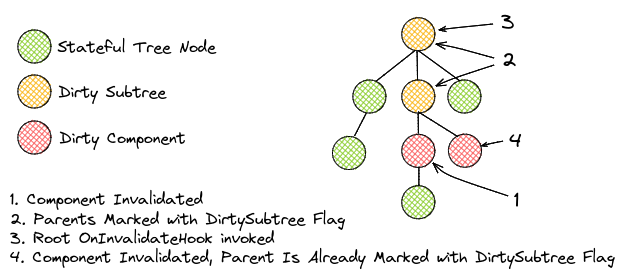
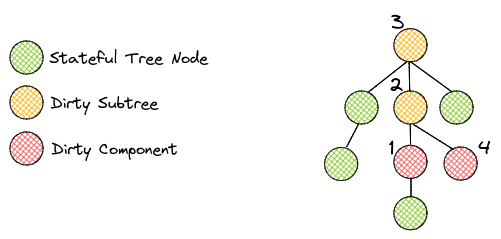
Docs

Changed region(s): [[0.0, 0.0293, 0.988, 0.9665], [0.509, 0.4686, 0.5988, 0.6151]]

diff --git a/packages/ivi/README.md b/packages/ivi/README.md
@@ -202,7 +202,7 @@ DOM element with `Element.removeAttribute(..)` method.
 Attribute values are escaped automatically:
 
 ```js
-htm`div :name='escape & "'
+htm`div :name='escape & "'`
 ```
 
 HTML:
@@ -441,6 +441,14 @@ function component<P>(
  * @param c Component instance.
  */
 function invalidate(c: Component): void;
+
+/**
+ * useUnmount creates an unmount hook.
+ *
+ * @param component Component instance.
+ * @param hook Unmount hook.
+ */
+function useUnmount(component: Component, hook: () => void): void;
 ```
 
 ### Stateless Components
@@ -478,24 +486,23 @@ API.
  *
  * @typeparam T Input type.
  * @typeparam U Output type.
- * @param fn
- * @param areEqual `areEqual` function.
- * @returns memoized function.
+ * @param areEqual Function that checks if input value hasn't changed.
+ * @param fn Function to memoize.
+ * @returns Memoized function.
  */
 function memo<T, U>(
-  fn: (props: T) => U,
   areEqual: (prev: T, next: T) => boolean,
+  fn: (props: T) => U,
 ): (props: T) => U;
 ```
 
 Example:
 
 ```js
-const FullName = component((c) => {
-  const fullName = memo(
-    ([firstName, lastName]) => `${firstName} ${lastName}`,
-    (prev, next) => prev[0] === next[0] && prev[1] === next[1],
-  );
+const Example = component((c) => {
+  const fullName = memo(shallowEqArray, ([firstName, lastName]) => (
+    `${firstName} ${lastName}`
+  ));
 
   return ({firstName, lastName}) => htm`
     div.fullName ${fullName([firstName, lastName])}
@@ -578,30 +585,6 @@ const Counter = component((c) => {
 
 ## Component Hooks
 
-### Unmount
-
-```ts
-/**
- * useUnmount creates an unmount hook.
- *
- * @param component Component instance.
- * @param hook Unmount hook.
- */
-function useUnmount(component: Component, hook: () => void): void;
-```
-
-Example:
-
-```js
-const UnmountMe = component((c) => {
-  useUnmount(c, () => {
-    console.log("unmounted");
-  });
-
-  return () => null;
-});
-```
-
 ### Effect
 
 ```ts
@@ -610,35 +593,29 @@ const UnmountMe = component((c) => {
  *
  * @typeparam T Hook props type.
  * @param component Component instance.
+ * @param areEqual Function that checks if input value hasn't changed.
  * @param hook Side effect function.
- * @param areEqual `areEqual` function.
  * @returns Side effect hook.
  */
 function useEffect = <P>(
   component: Component,
-  hook: (props?: P) => (() => void) | void,
   areEqual: (prev: P, next: P) => boolean,
+  hook: (props?: P) => (() => void) | void,
 ): (props: P) => void;
 ```
 
 Example:
 
 ```js
-const Counter = component((c) => {
-  let i = 0;
-  const timer = useEffect(c,
-    (delay) => {
-      const tid = setInterval(() => {
-        i++;
-        invalidate(c);
-      }, delay);
-      return () => { clearInterval(tid); };
-    },
-    (prev, next) => prev !== next,
-  );
+const Example = component((c) => {
+  const [count, setCount] = useState(0);
+  const timer = useEffect(c, shallowEq, ({ interval }) => {
+    const tid = setInterval(() => { setCount(count() + 1); }, interval);
+    return () => { clearInterval(tid); };
+  });
 
-  return (delay) => (
-    timer(delay),
+  return (interval) => (
+    timer({ interval }),
     htm`span.Counter ${i}`
   );
 });
@@ -695,9 +672,9 @@ for changes.
 const strictEq = <T>(a: T, b: T): boolean;
 
 /**
- * Checks if objects are shallowly equal.
+ * Checks if objects are shallow equal.
  *
- * shallowEqual algorithm is using strict equality operator `===` to
+ * shallowEq algorithm is using strict equality operator `===` to
  * compare object values.
  *
  * @param a
@@ -709,7 +686,7 @@ function shallowEq<T extends Record<string | symbol, unknown>>(a: T, b: T): bool
 /**
  * Checks if arrays are shallow equal.
  *
- * shallowEqualArray algorithm is using strict equality operator `===` to
+ * shallowEqArray algorithm is using strict equality operator `===` to
  * compare array values.
  *
  * @param a
@@ -725,29 +702,29 @@ function shallowEqArray<T>(a: T[], b: T[]): boolean;
 
 ```ts
 /**
- * Finds the closest DOM node from the {@link SNode} instance.
+ * Finds the closest DOM node from a Stateful Tree {@link SNode}.
  *
  * @typeparam T DOM node type.
- * @param sNode {@link SNode} instance.
+ * @param sNode Stateful Tree {@link SNode}.
  * @returns DOM node.
  */
 function findDOMNode<T extends Node | Text>(sNode: SNode | null): T | null;
 
 /**
- * Checks if {@link SNode} contains a DOM element.
+ * Checks if a Stateful Tree {@link SNode} contains a DOM element.
  *
- * @param parent {@link SNode}.
+ * @param parent Stateful Tree {@link SNode}.
  * @param element DOM element.
- * @returns true when parent contains an element.
+ * @returns True when parent contains an element.
  */
 function containsDOMElement(parent: SNode, element: Element): boolean;
 
 /**
- * Checks if {@link SNode} has a child DOM element.
+ * Checks if a Stateful Tree {@link SNode} has a child DOM element.
  *
- * @param parent {@link SNode}.
+ * @param parent Stateful Tree {@link SNode}.
  * @param child DOM element.
- * @returns true when parent has a DOM element child.
+ * @returns True when parent has a DOM element child.
  */
 function hasDOMElement = (parent: SNode, child: Element): boolean;
 ```
@@ -798,15 +775,30 @@ that can be used to implement a [custom scheduler](#custom-scheduler).
   <img src="https://localvoid.github.io/ivi/images/component-invalidated-1-light.png">
 </picture>
 
+1. Component invalidated and marked with `Dirty` flag.
+2. Node marked with `DirtySubtree` flag.
+3. Root Node marked with `DirtySubtree` flag, `OnRootInvalidated()` hook
+invoked.
+4. Component invalidated and marked with `Dirty` flag, parents already marked
+with `DirtySubtree` flag.
+
 When scheduler decides to update a root node with a dirty subtree, it starts a
-dirty checking algorithm. This algorithm goes top-down visiting all nodes with a
-dirty subtree flag until it reaches a dirty component and updates it.
+dirty checking algorithm. This algorithm goes top-down in a right-to-left order,
+visiting all nodes with a dirty subtree flag until it reaches a dirty component
+and updates it.
 
 <picture>
   <source media="(prefers-color-scheme: dark)" srcset="https://localvoid.github.io/ivi/images/dirty-checking-1-dark.png">
   <source media="(prefers-color-scheme: light)" srcset="https://localvoid.github.io/ivi/images/dirty-checking-1-light.png">
   <img src="https://localvoid.github.io/ivi/images/dirty-checking-1-light.png">
 </picture>
+
+1. Starts dirty checking from the root node.
+2. Clean node, skips visiting its subtree.
+3. Node with `DirtySubtree` flag, starts checking its children.
+4. Component with `Dirty` flag, triggers an update.
+5. Component with `Dirty` flag, triggers an update.
+6. Clean node, skips visiting its subtree.
 
 #### Right-to-Left Updates
 
@@ -950,11 +942,23 @@ type SComponent = SNode<VComponent, ComponentState>;
 // 20 bytes.
 interface ComponentState {
   // Render function.
+  //
+  // Stateless components will share the same function.
+  // Stateful components will create closures and its memory usage will depend
+  // on the size of the closure context.
   r: null | ((props: any) => VAny),
   // Unmount hooks.
+  //
   // Usually components don't have any unmount hooks, or they have just one
-  // unmount hook. When there is one hook, it will be stored without any
-  // additional arrays.
+  // unmount hook.
+  //
+  // When there is one hook, it will be stored without any additional arrays.
+  // If we add one more hook, array will be preallocated with exactly two
+  // slots `[firstHook, newHook]`. And when it grows even more, javascript
+  // engine will preallocate internal storage using a growth factor[1][2].
+  //
+  // 1. https://en.wikipedia.org/wiki/Dynamic_array#Growth_factor
+  // 2. https://github.com/v8/v8/blob/1e6775a539a3b88b25cc0ffdb52529c68aad2be8/src/objects/js-objects.h#L584-L590
   u: null | (() => void) | (() => void)[];
 }
 ```
